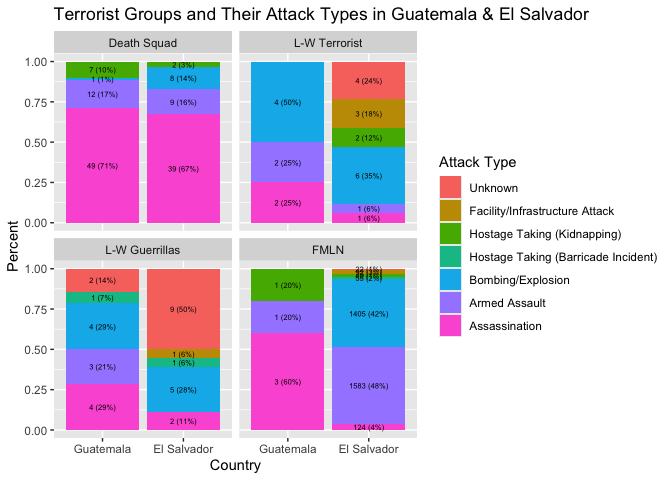
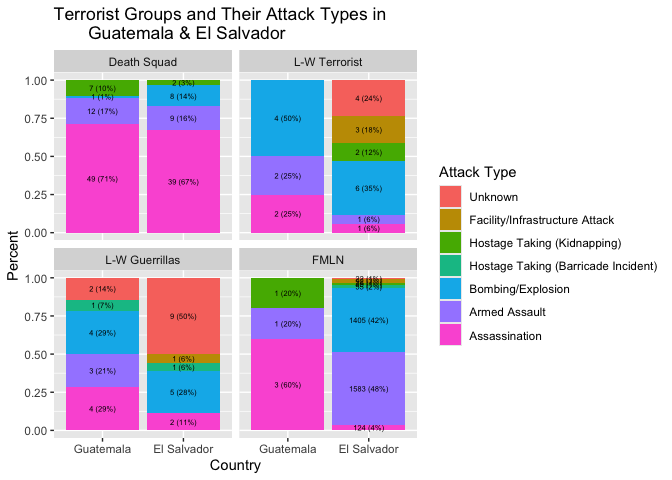
updated

diff --git a/Terror_Latin_America.md b/Terror_Latin_America.md
@@ -226,7 +226,10 @@ GT %>%
   count(gname, ishostkid)%>%
   group_by(gname) %>% 
   mutate(count=prop.table(n)*100) %>%
-  ggplot(aes(x=gname, y=count, fill=ishostkid))+geom_bar(stat="identity")+ geom_text(aes(label=paste0(sprintf("%1.1f",count),"%")),position=position_stack(vjust = .5))+theme_bw()+labs(y="Percentage",x="Terrorist Groups", title="Percentage of Victims Kidnapped by Terrorist Groups") + coord_flip() +scale_fill_discrete(name="Victim Kidnapped", breaks=c(0,1), labels=c("No", "Yes"))
+  ggplot(aes(x=gname, y=count, fill=ishostkid))+geom_bar(stat="identity")+     geom_text(aes(label=paste0(sprintf("%1.1f",count),"%")),                                       position=position_stack(vjust = .5)) + theme_bw() +
+  labs(y="Percentage",x="Terrorist Groups", title="Percentage of Victims Kidnapped by Terrorist Groups") + 
+  coord_flip() +
+  scale_fill_discrete(name="Victim Kidnapped", breaks=c(0,1), labels=c("No", "Yes"))
 ```
 
 ![](Terror_Latin_America_files/figure-gfm/unnamed-chunk-6-1.png)<!-- -->
@@ -252,8 +255,10 @@ GT %>%
   group_by(gname) %>% 
   mutate(count=prop.table(n)*100) %>%
   ggplot(aes(x=gname, y=count, fill=weaptype1))+geom_bar(stat='identity')+    
-  geom_text(aes(label=paste0(sprintf("%1.1f",count),"%")),position=position_stack(vjust = .5))+
-  labs(y="Percentage",x="Terrorist Groups",title="Weaponry Used in Terrorist Attacks in Guatemala ")+coord_flip()+scale_fill_discrete(name="Weapon Types", breaks=c(10, 11,13, 5, 6,8,9), labels=c("Vehicle", "Sabotage Equipment", "Unknown", "Firearms", "Explosives","Incendiary", "Melee"))
+  geom_text(aes(label=paste0(sprintf("%1.1f",count),"%")), 
+  position=position_stack(vjust = .5)) + labs(y="Percentage",x="Terrorist Groups",title="Weaponry Used in Terrorist Attacks in Guatemala ") + 
+  coord_flip()+ scale_fill_discrete(name="Weapon Types", 
+  breaks=c(10, 11,13, 5, 6,8,9), labels=c("Vehicle", "Sabotage Equipment", "Unknown", "Firearms", "Explosives","Incendiary", "Melee"))
 ```
 
 ![](Terror_Latin_America_files/figure-gfm/unnamed-chunk-7-1.png)<!-- -->
@@ -268,7 +273,12 @@ extra layer of anger and resentment to use that.
 
 ``` r
 GT %>% mutate(country_txt=factor(country_txt, levels = c("Guatemala","El Salvador")),
-              attacktype1=factor(attacktype1, levels=(9:1), labels=(c('Unknown','Unarmed Assault', 'Facility/Infrastructure Attack', 'Hostage Taking (Kidnapping)', 'Hostage Taking (Barricade Incident)','Hijacking', 'Bombing/Explosion', 'Armed Assault', 'Assassination'))), gname=factor(gname, levels = c("Death Squad","Left-Wing Terrorists", "Left-Wing Guerrillas", "Farabundo Marti National Liberation Front (FMLN)"), labels=c('Death Squad', 'L-W Terrorist', 'L-W Guerrillas', "FMLN"))) %>%
+              attacktype1=factor(attacktype1, levels=(9:1), labels=(c('Unknown',
+              'Unarmed Assault', 'Facility/Infrastructure Attack', 'Hostage Taking (Kidnapping)', 'Hostage Taking (Barricade Incident)','Hijacking', 
+              'Bombing/Explosion', 'Armed Assault', 'Assassination'))), 
+              gname=factor(gname, levels = c("Death Squad","Left-Wing Terrorists", 
+                                             "Left-Wing Guerrillas", "Farabundo Marti National Liberation Front (FMLN)"), 
+                           labels=c('Death Squad', 'L-W Terrorist', 'L-W Guerrillas', "FMLN"))) %>%
   group_by(country_txt,gname,attacktype1) %>% summarise(N=n()) %>% ungroup() %>%
   group_by(country_txt,gname) %>% 
   mutate(Total=sum(N),Percent=N/Total,
@@ -281,7 +291,10 @@ GT %>% mutate(country_txt=factor(country_txt, levels = c("Guatemala","El Salvado
 ``` r
 Sums<-Sums[rowSums(is.na(Sums))<.1,] 
 #plot
-ggplot(Sums,aes(x=country_txt,y=Percent,fill=attacktype1))+geom_bar(stat='identity',position = position_stack())+facet_wrap(.~gname)+geom_text(aes(label=Lab),position = position_stack(vjust = .5),size=2)+labs(x="Country", title = "Terrorist Groups and Their Attack Types in Guatemala & El Salvador")+scale_fill_discrete(name="Attack Type")
+ggplot(Sums,aes(x=country_txt,y=Percent,fill=attacktype1)) +
+  geom_bar(stat='identity',position =  position_stack()) + facet_wrap(.~gname) + geom_text(aes(label=Lab), position = position_stack(vjust = .5),size=2) + 
+  labs(x="Country", title = "Terrorist Groups and Their Attack Types in
+       Guatemala & El Salvador") + scale_fill_discrete(name="Attack Type")
 ```
 
 ![](Terror_Latin_America_files/figure-gfm/unnamed-chunk-8-1.png)<!-- -->
